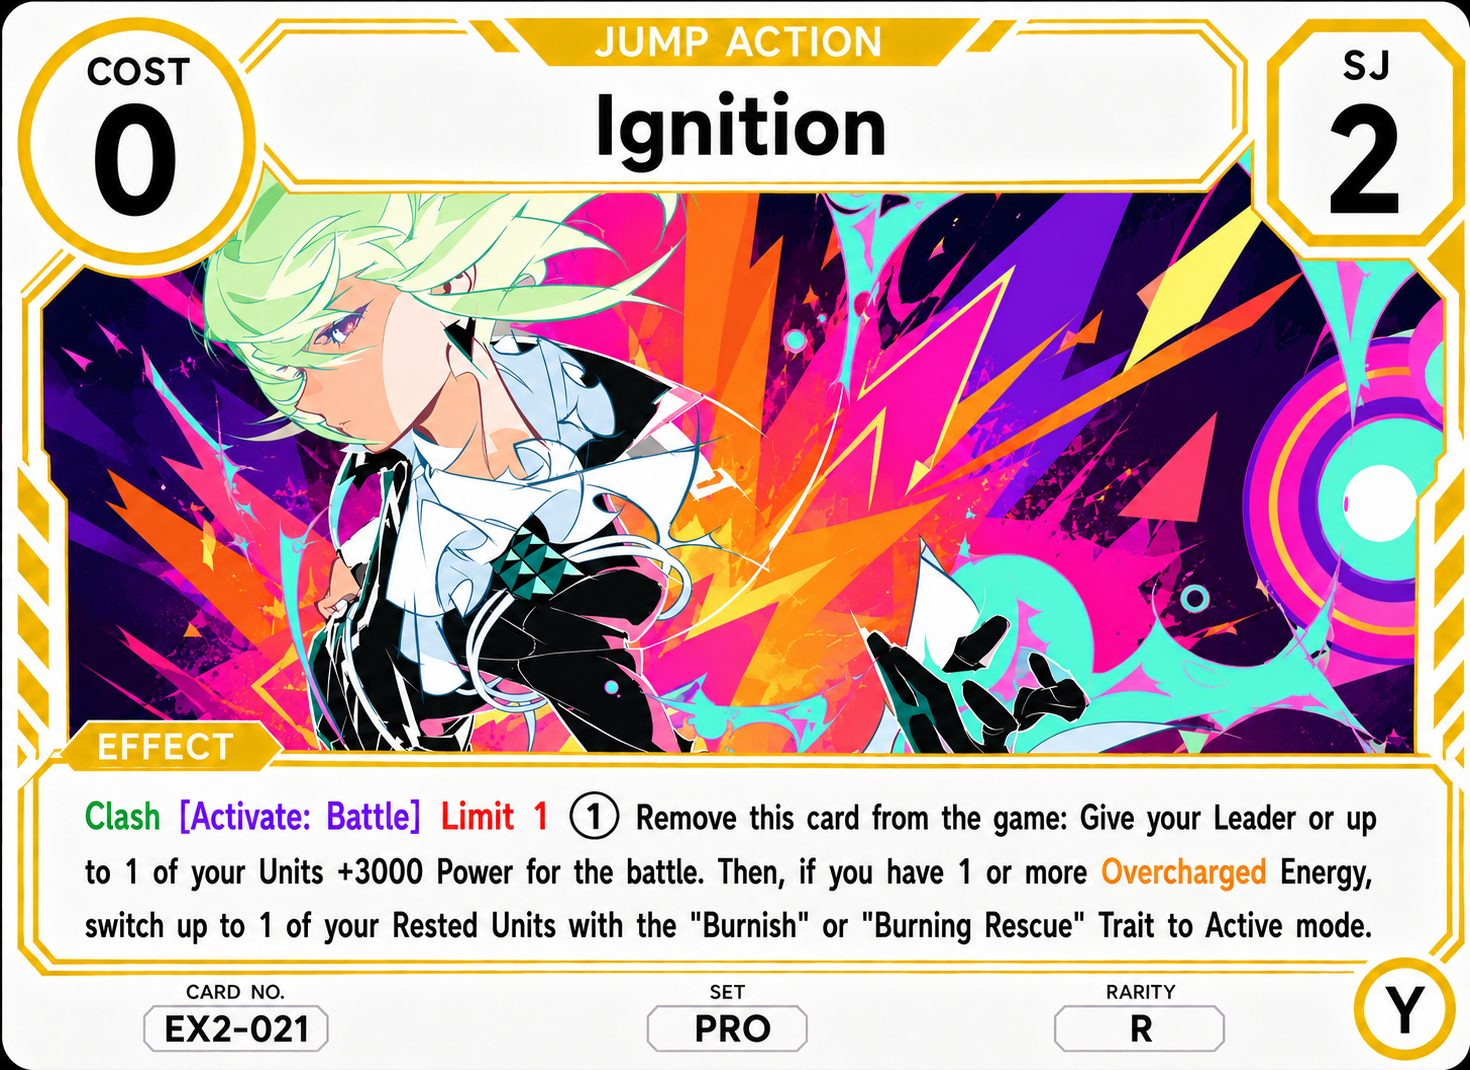
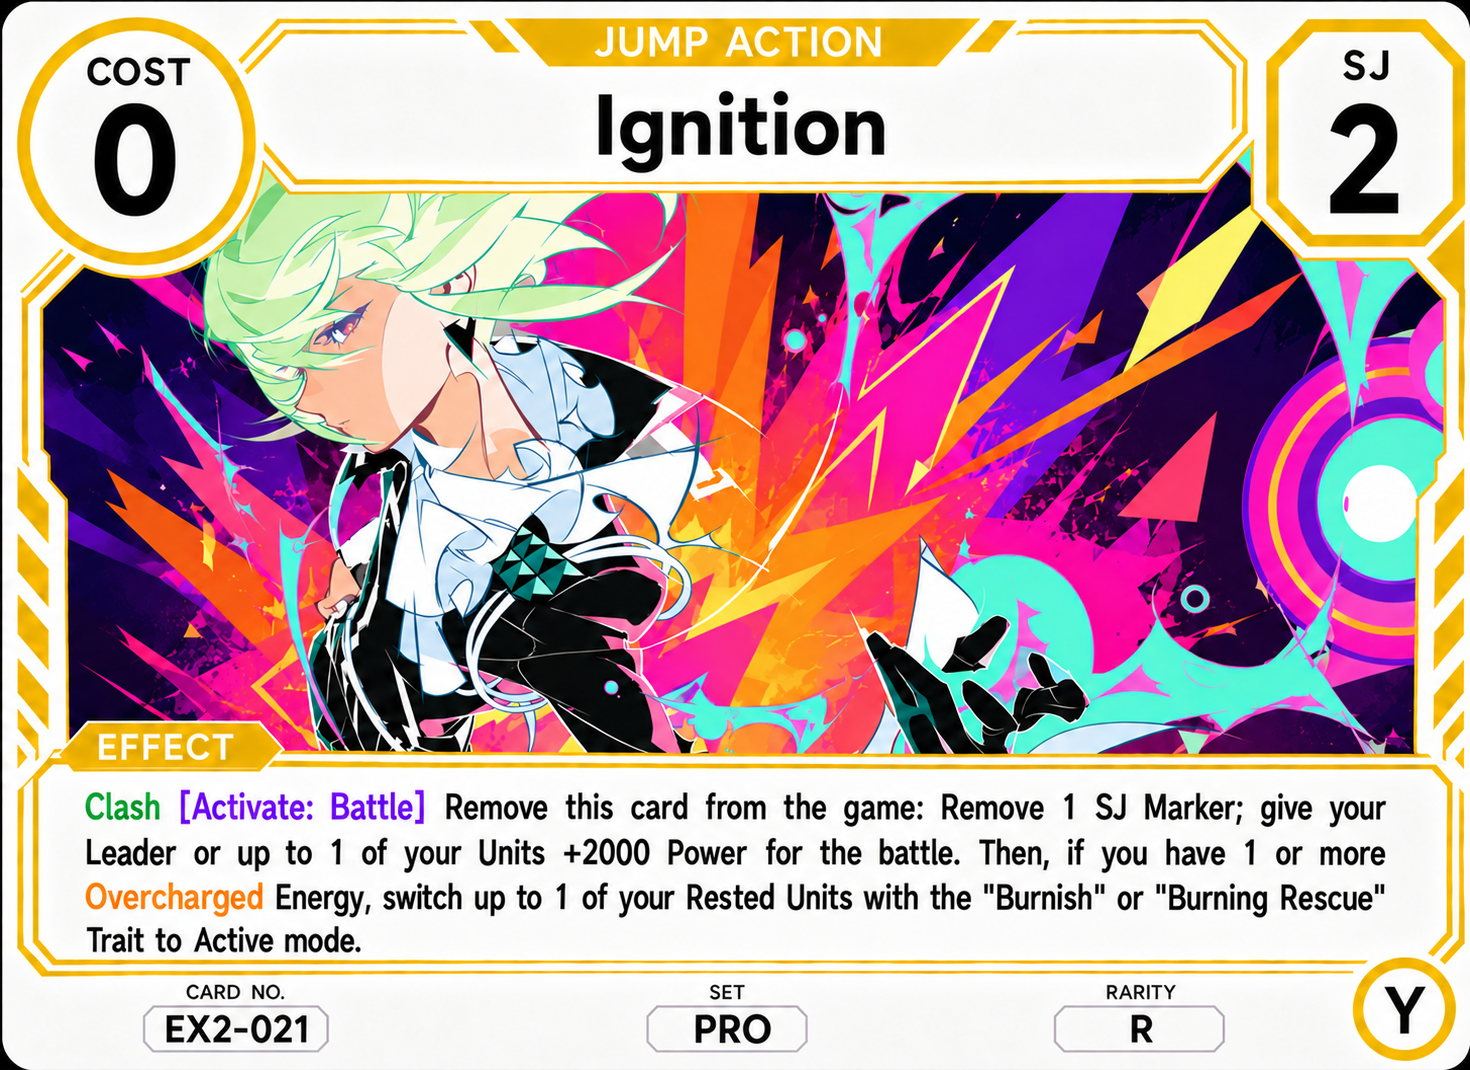
Update Challe and Ignition revised prints

diff --git a/card-text-data.js b/card-text-data.js
@@ -15038,8 +15038,8 @@ window.SJTCG_CARD_TEXT = {
     "set": "PRO",
     "rarity": "R",
     "bottom_right_circle": "Y",
-    "effect": "Clash [Activate: Battle] Limit 1 (1) Remove this card from the game: Give your Leader or up to 1 of your Units +3000 Power for the battle. Then, if you have 1 or more Overcharged Energy, switch up to 1 of your Rested Units with the “Burnish” or “Burning Rescue” Trait to Active mode.",
-    "effect_html": "<span class=\"kw kw-green\" title=\"Clash\">Clash</span> <span class=\"kw kw-purple\" title=\"Timing window\">[Activate: Battle]</span> <span class=\"kw kw-red\" title=\"Limit X\">Limit 1</span> (1) Remove this card from the game: Give your Leader or up to 1 of your Units +3000 Power for the battle. Then, if you have 1 or more <span class=\"kw kw-orange\" title=\"Overcharge\">Overcharged</span> Energy, switch up to 1 of your Rested Units with the “Burnish” or “Burning Rescue” Trait to Active mode.",
+    "effect": "Clash [Activate: Battle] Remove this card from the game: Remove 1 SJ Marker; give your Leader or up to 1 of your Units +2000 Power for the battle. Then, if you have 1 or more Overcharged Energy, switch up to 1 of your Rested Units with the \"Burnish\" or \"Burning Rescue\" Trait to Active mode.",
+    "effect_html": "<span class=\"kw kw-green\" title=\"Clash\">Clash</span> <span class=\"kw kw-purple\" title=\"Timing window\">[Activate: Battle]</span> Remove this card from the game: Remove 1 SJ Marker; give your Leader or up to 1 of your Units +2000 Power for the battle. Then, if you have 1 or more <span class=\"kw kw-orange\" title=\"Overcharged\">Overcharged</span> Energy, switch up to 1 of your Rested Units with the &quot;Burnish&quot; or &quot;Burning Rescue&quot; Trait to Active mode.",
     "notes": "JUMP Action; no Traits.",
     "transcription_status": "verified",
     "release": "EX2",
@@ -15561,14 +15561,14 @@ window.SJTCG_CARD_TEXT = {
     "cost": "7",
     "sj_cost": "",
     "life": "",
-    "power": "5000",
-    "counter": "0",
+    "power": "6000",
+    "counter": "1000",
     "traits": "Warrior Fairy",
     "set": "SAF",
     "rarity": "SR",
     "bottom_right_circle": "B",
-    "effect": "[On Block] Give this card +2000 Power until the end of your next turn.\n[On Play] Play up to 1 \"Anne Halford\" with a Cost of 1 from your hand or Drop.",
-    "effect_html": "<span class=\"kw kw-purple\" title=\"Timing window\">[On Block]</span> Give this card +2000 Power until the end of your next turn.<br><span class=\"kw kw-purple\" title=\"Timing window\">[On Play]</span> Play up to 1 &quot;Anne Halford&quot; with a Cost of 1 from your hand or Drop.",
+    "effect": "[On Block] Give this card +1000 Power until the end of your next turn.\n[On Play] Play up to 1 \"Anne Halford\" with a Cost of 1 from your hand or Drop.",
+    "effect_html": "<span class=\"kw kw-purple\" title=\"Timing window\">[On Block]</span> Give this card +1000 Power until the end of your next turn.<br><span class=\"kw kw-purple\" title=\"Timing window\">[On Play]</span> Play up to 1 &quot;Anne Halford&quot; with a Cost of 1 from your hand or Drop.",
     "notes": "",
     "transcription_status": "verified",
     "release": "EX4",

diff --git a/cards-data.js b/cards-data.js
@@ -8846,7 +8846,7 @@ window.SJTCG_CARD_DATA = [
     "cardType": "Main Deck",
     "deckLimit": 1,
     "orientation": "Landscape",
-    "imageVersion": "12feaaf9943d"
+    "imageVersion": "1eb3eccb11fd"
   },
   {
     "number": "EX3-001",
@@ -9162,7 +9162,7 @@ window.SJTCG_CARD_DATA = [
     "cardType": "Main Deck",
     "deckLimit": 4,
     "orientation": "Portrait",
-    "imageVersion": "327f3a9fab33"
+    "imageVersion": "b3f6b437dd41"
   },
   {
     "number": "EX4-003",

diff --git a/index.html b/index.html
@@ -214,8 +214,8 @@
     </section>
   </div>
 
-  <script src="cards-data.js?v=cec5ff37d8e3"></script>
-  <script src="card-text-data.js?v=ed3466980a12"></script>
+  <script src="cards-data.js?v=b9217c560dde"></script>
+  <script src="card-text-data.js?v=49aad8d35f26"></script>
   <script src="app.js?v=20261009-reprint-search-2"></script>
 </body>
 </html>
